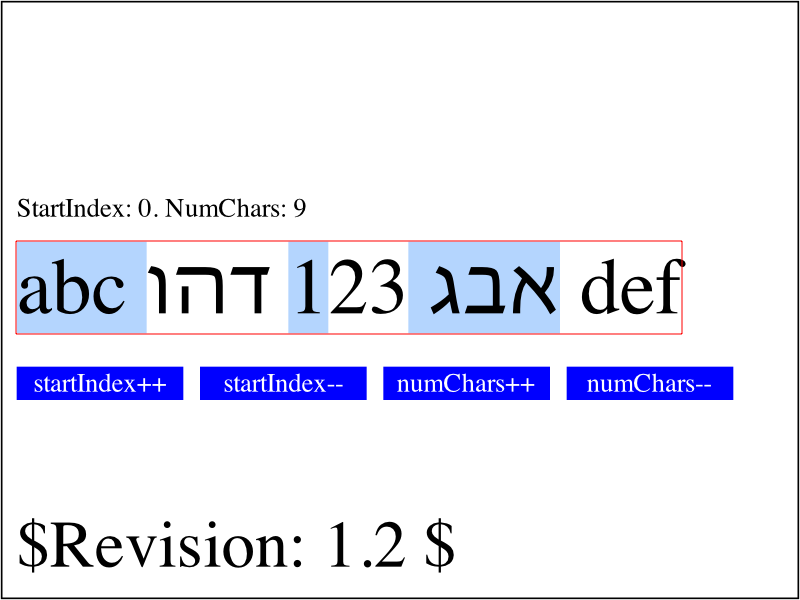
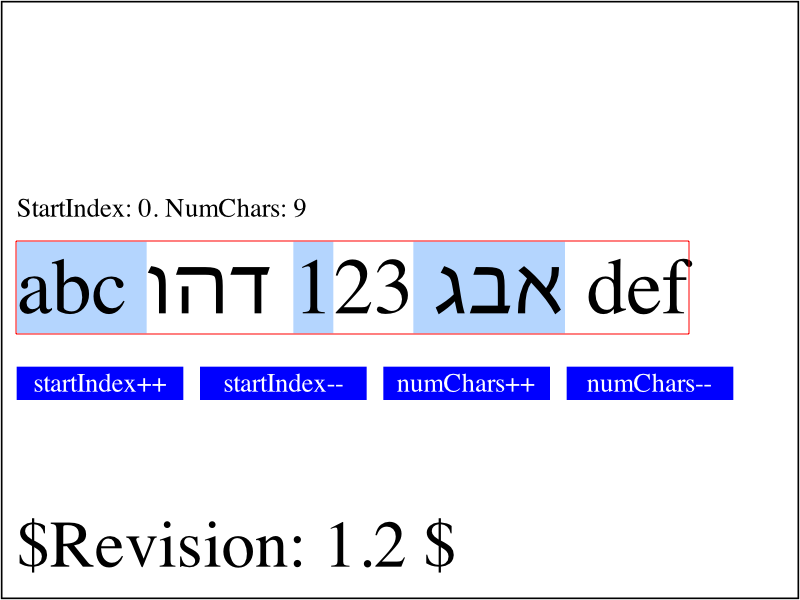
Change ENABLE(FONT_FAST_PATH) to USE(FONT_FAST_PATH) and revert pixel test results back to the state as before r39254.
https://bugs.webkit.org/show_bug.cgi?id=22824

Identifier: 31481@main
git-svn-id: https://svn.webkit.org/repository/webkit/trunk@39277 268f45cc-cd09-0410-ab3c-d52691b4dbfc

Changed region(s): [[0.3438, 0.39, 0.875, 0.57]]

diff --git a/WebCore/platform/graphics/Font.cpp b/WebCore/platform/graphics/Font.cpp
@@ -262,7 +262,7 @@ float Font::floatWidth(const TextRun& run, int extraCharsAvailable, int& charsCo
     charsConsumed = run.length();
     glyphName = "";
 
-#if ENABLE(FONT_FAST_PATH)
+#if USE(FONT_FAST_PATH)
     if (canUseGlyphCache(run))
         return floatWidthForSimpleText(run, 0);
 #endif
